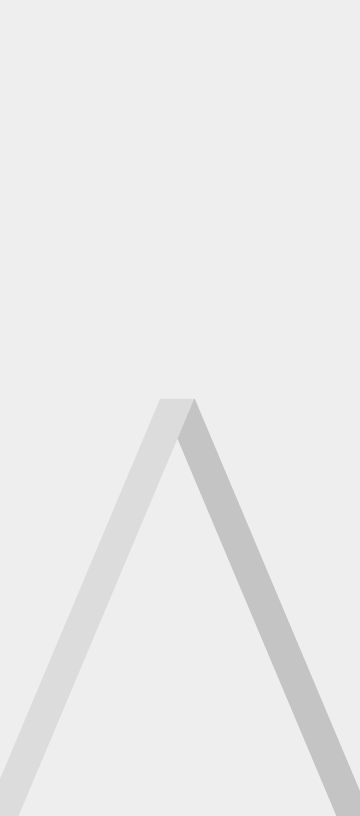
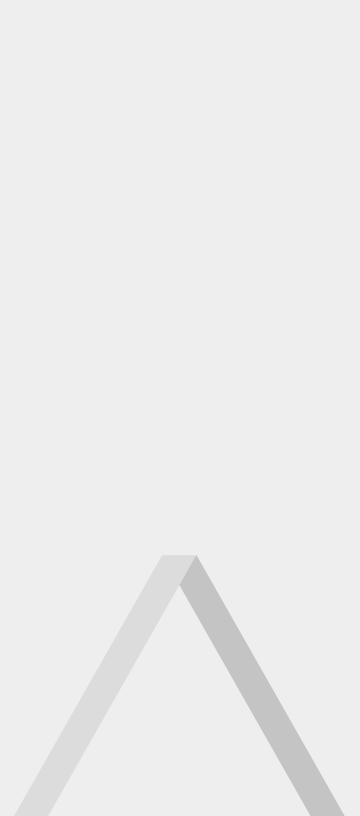
changed footer

Changed region(s): [[0.4889, 0.4902, 1.0, 1.0]]

diff --git a/static/style.css b/static/style.css
@@ -878,6 +878,8 @@ body{
     overflow: hidden;
     background-color: #eeeeee;
     background: url('assets/lettersBack.png') #eeeeee;
+    background-repeat: no-repeat;
+    background-position: center;
     transition: 0.5s;
 }
 
